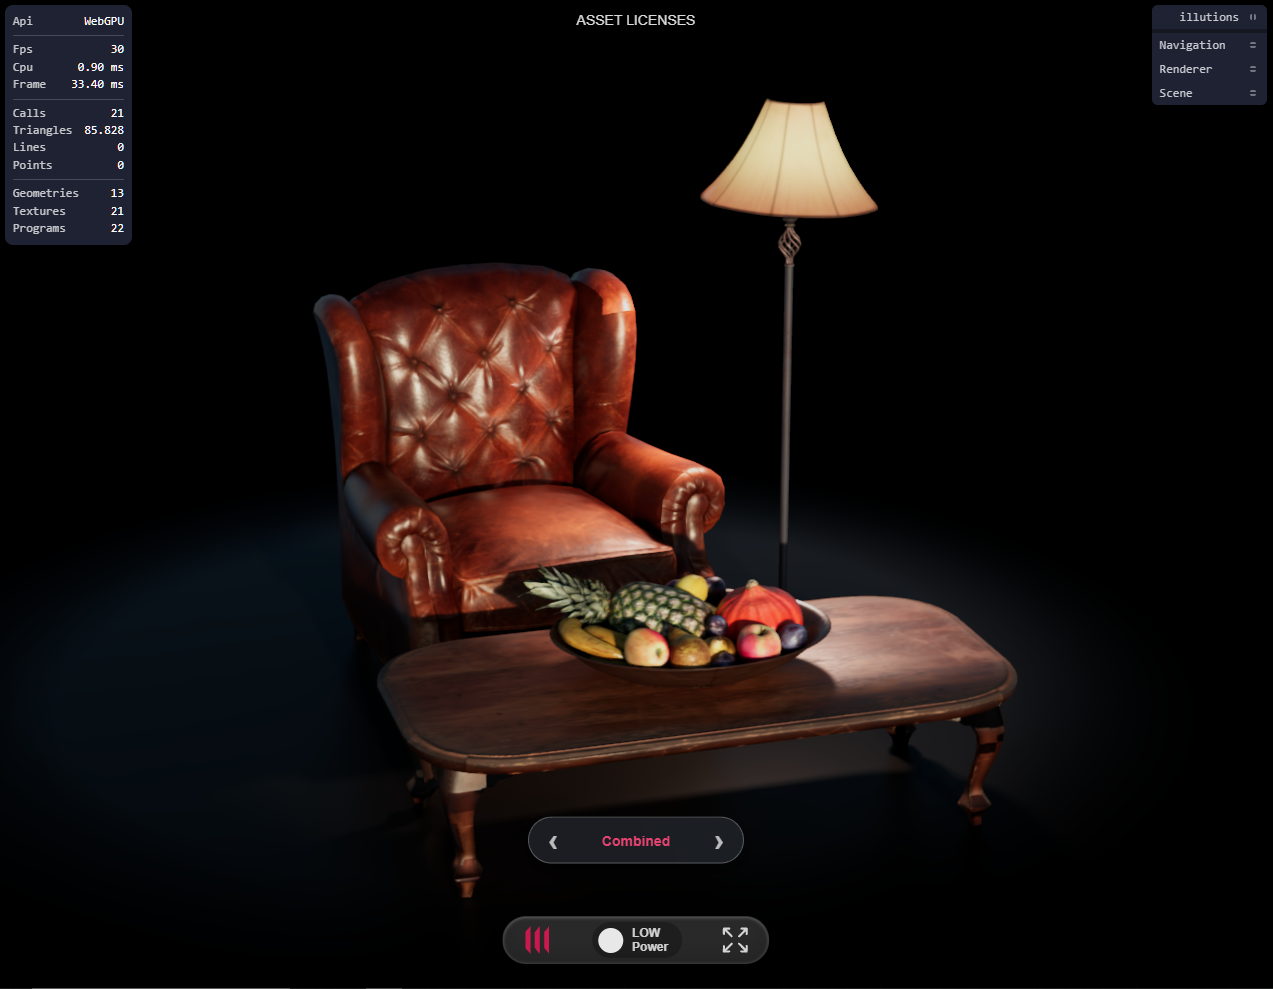
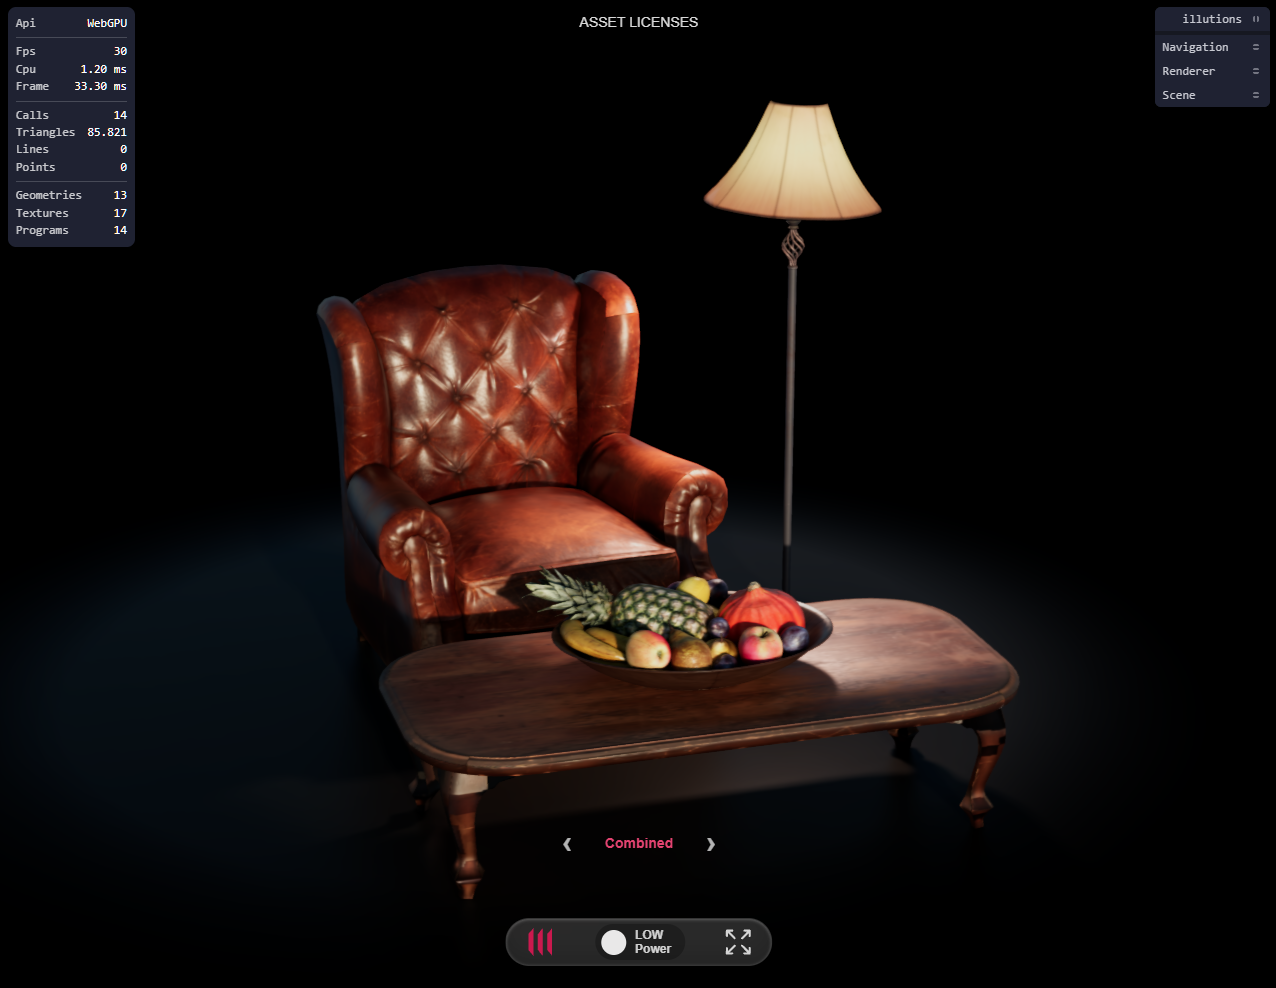
chore: Change toggle menu background

diff --git a/src/comps/style/toggle.css b/src/comps/style/toggle.css
@@ -13,7 +13,7 @@
   display: grid;
   grid-template-columns: 2.5rem minmax(0, 1fr) 2.5rem;
   gap: 0.25rem;
-  width: 13.5rem;
+  width: 12rem;
   min-width: 0;
   padding: 0.25rem;
   box-sizing: border-box;
@@ -21,12 +21,6 @@
   font: inherit;
   font-size: 0.875rem;
   font-weight: 600;
-  background: #20242bcc;
-  border: 1px solid #ffffff40;
-  border-radius: 999px;
-  box-shadow: 0 0.5rem 1.5rem #0006;
-  backdrop-filter: blur(0.75rem);
-  -webkit-backdrop-filter: blur(0.75rem);
   pointer-events: auto;
 }
 
@@ -58,11 +52,11 @@ button {
 
 button:hover {
   color: #fff;
-  background: #ffffff14;
+  background: #ffffff24;
 }
 
 button:active {
-  background: #ffffff24;
+  background: #ffffff34;
 }
 
 button:focus-visible {
